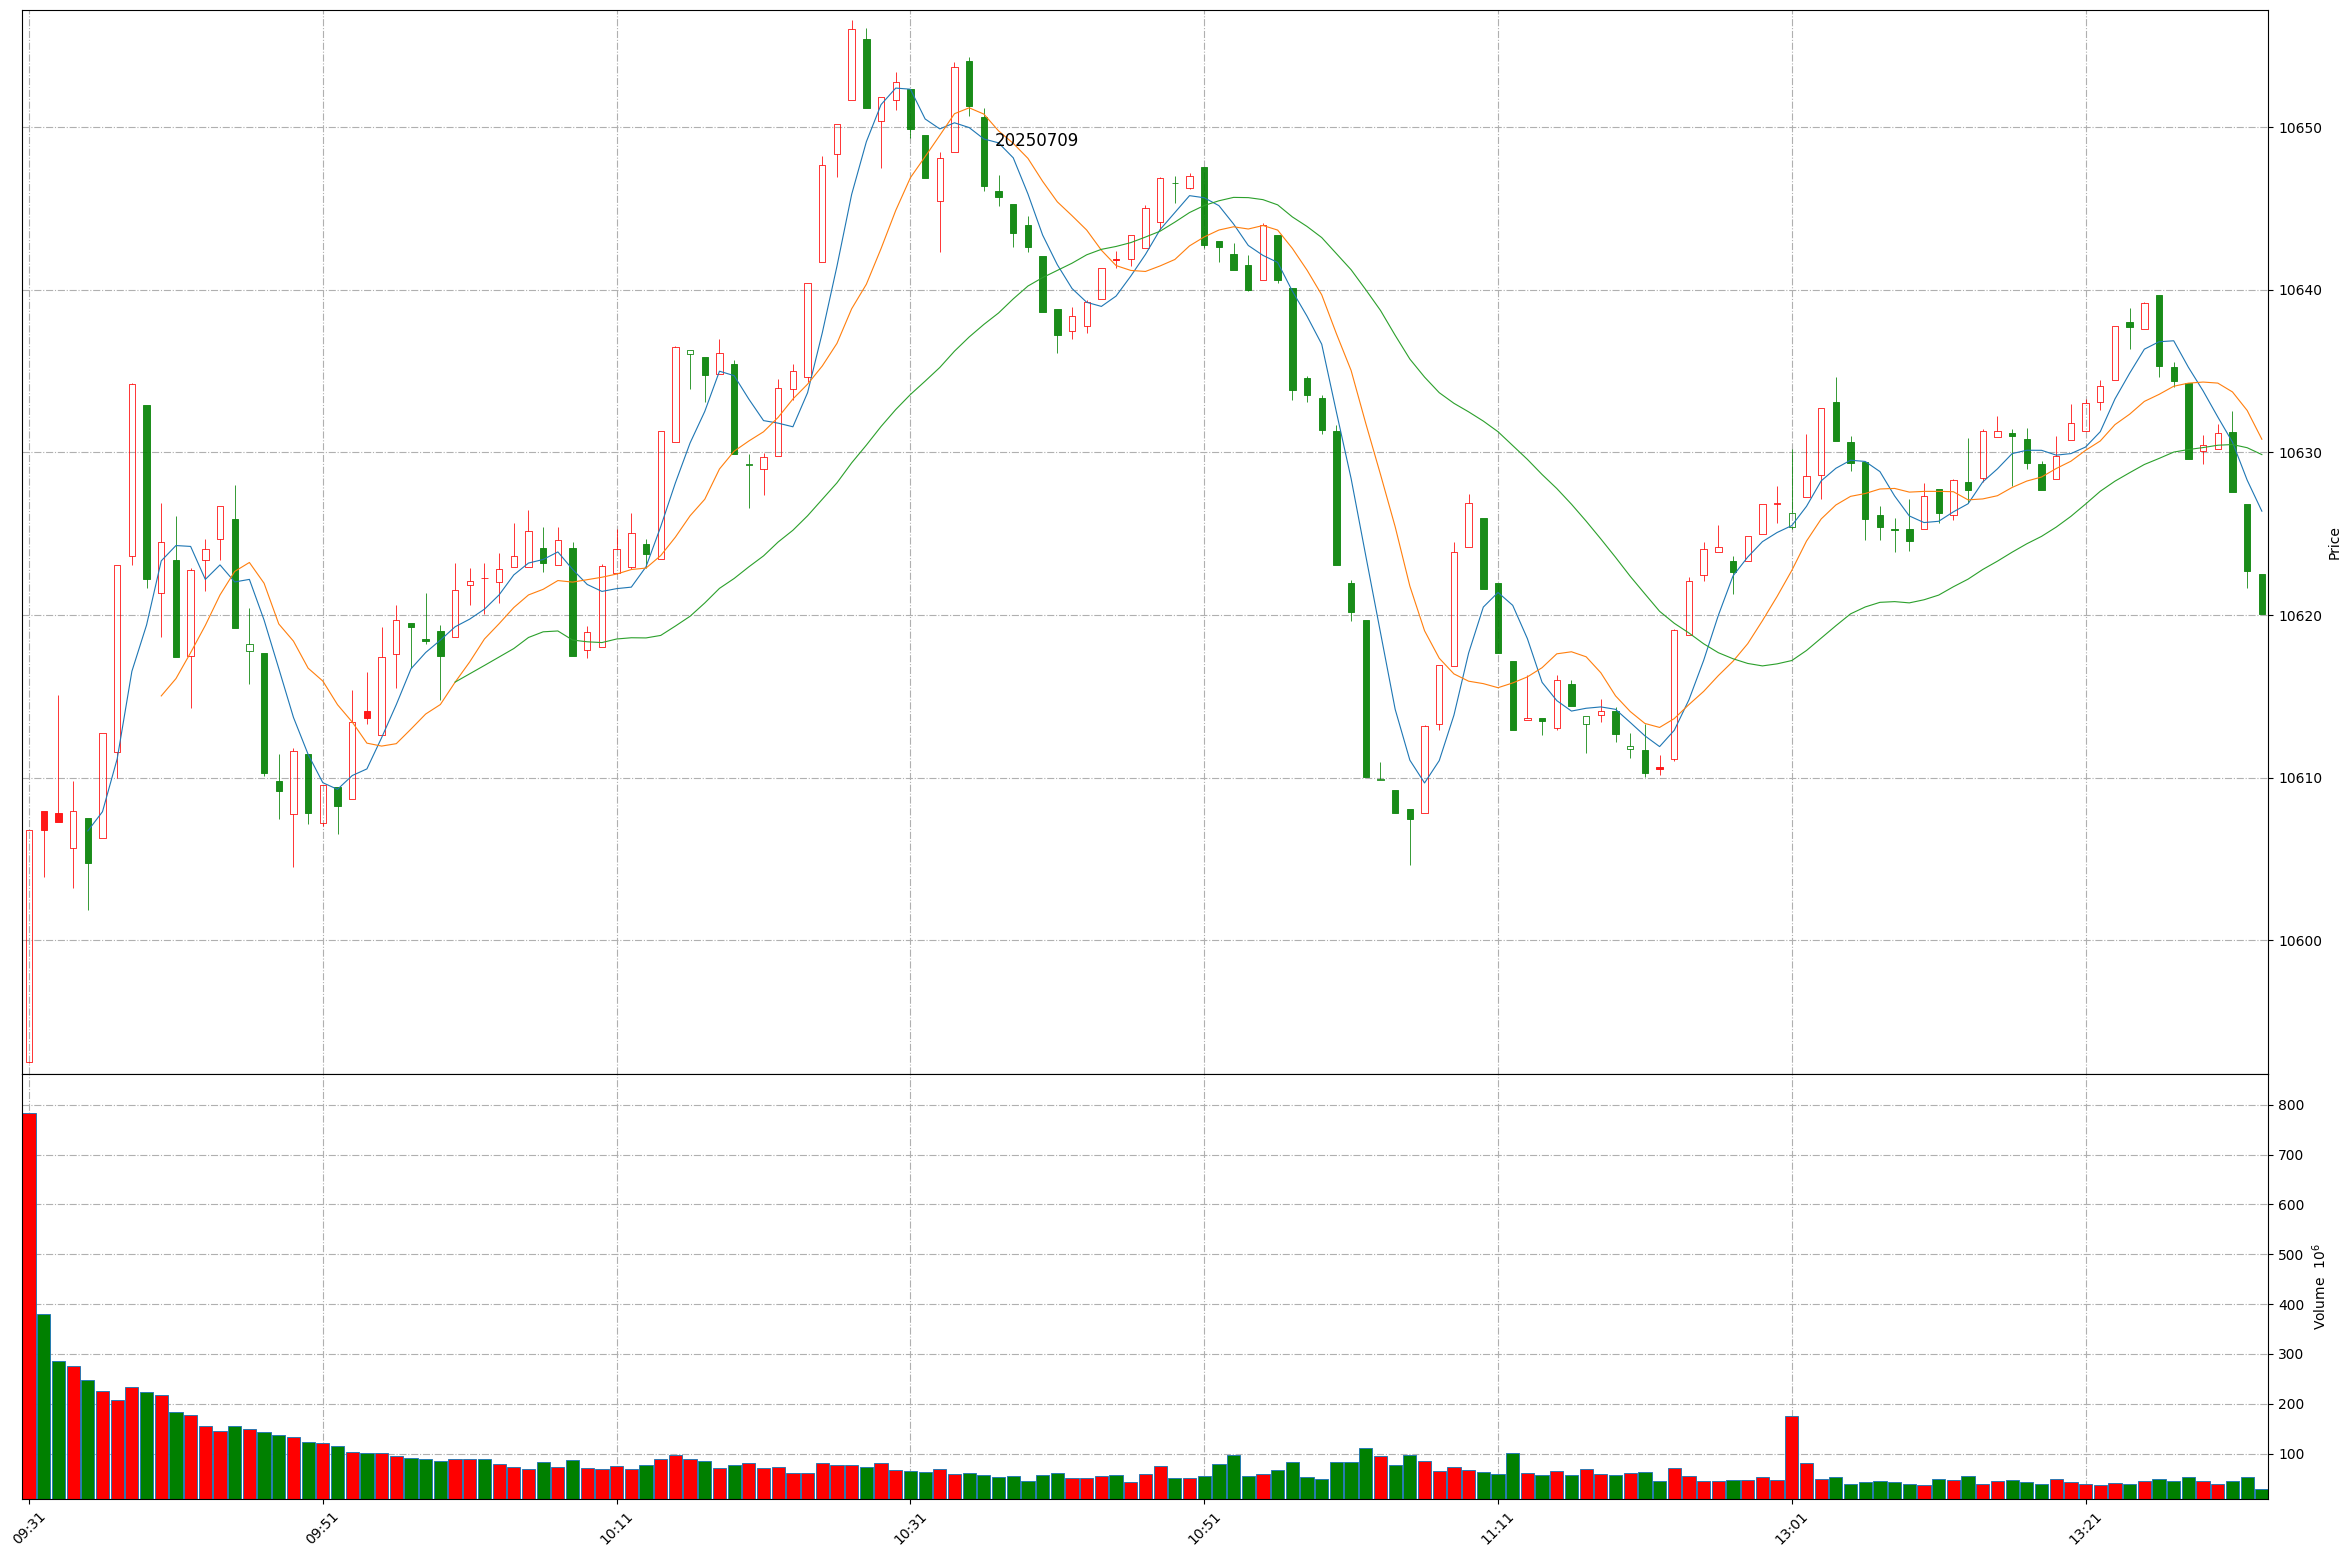
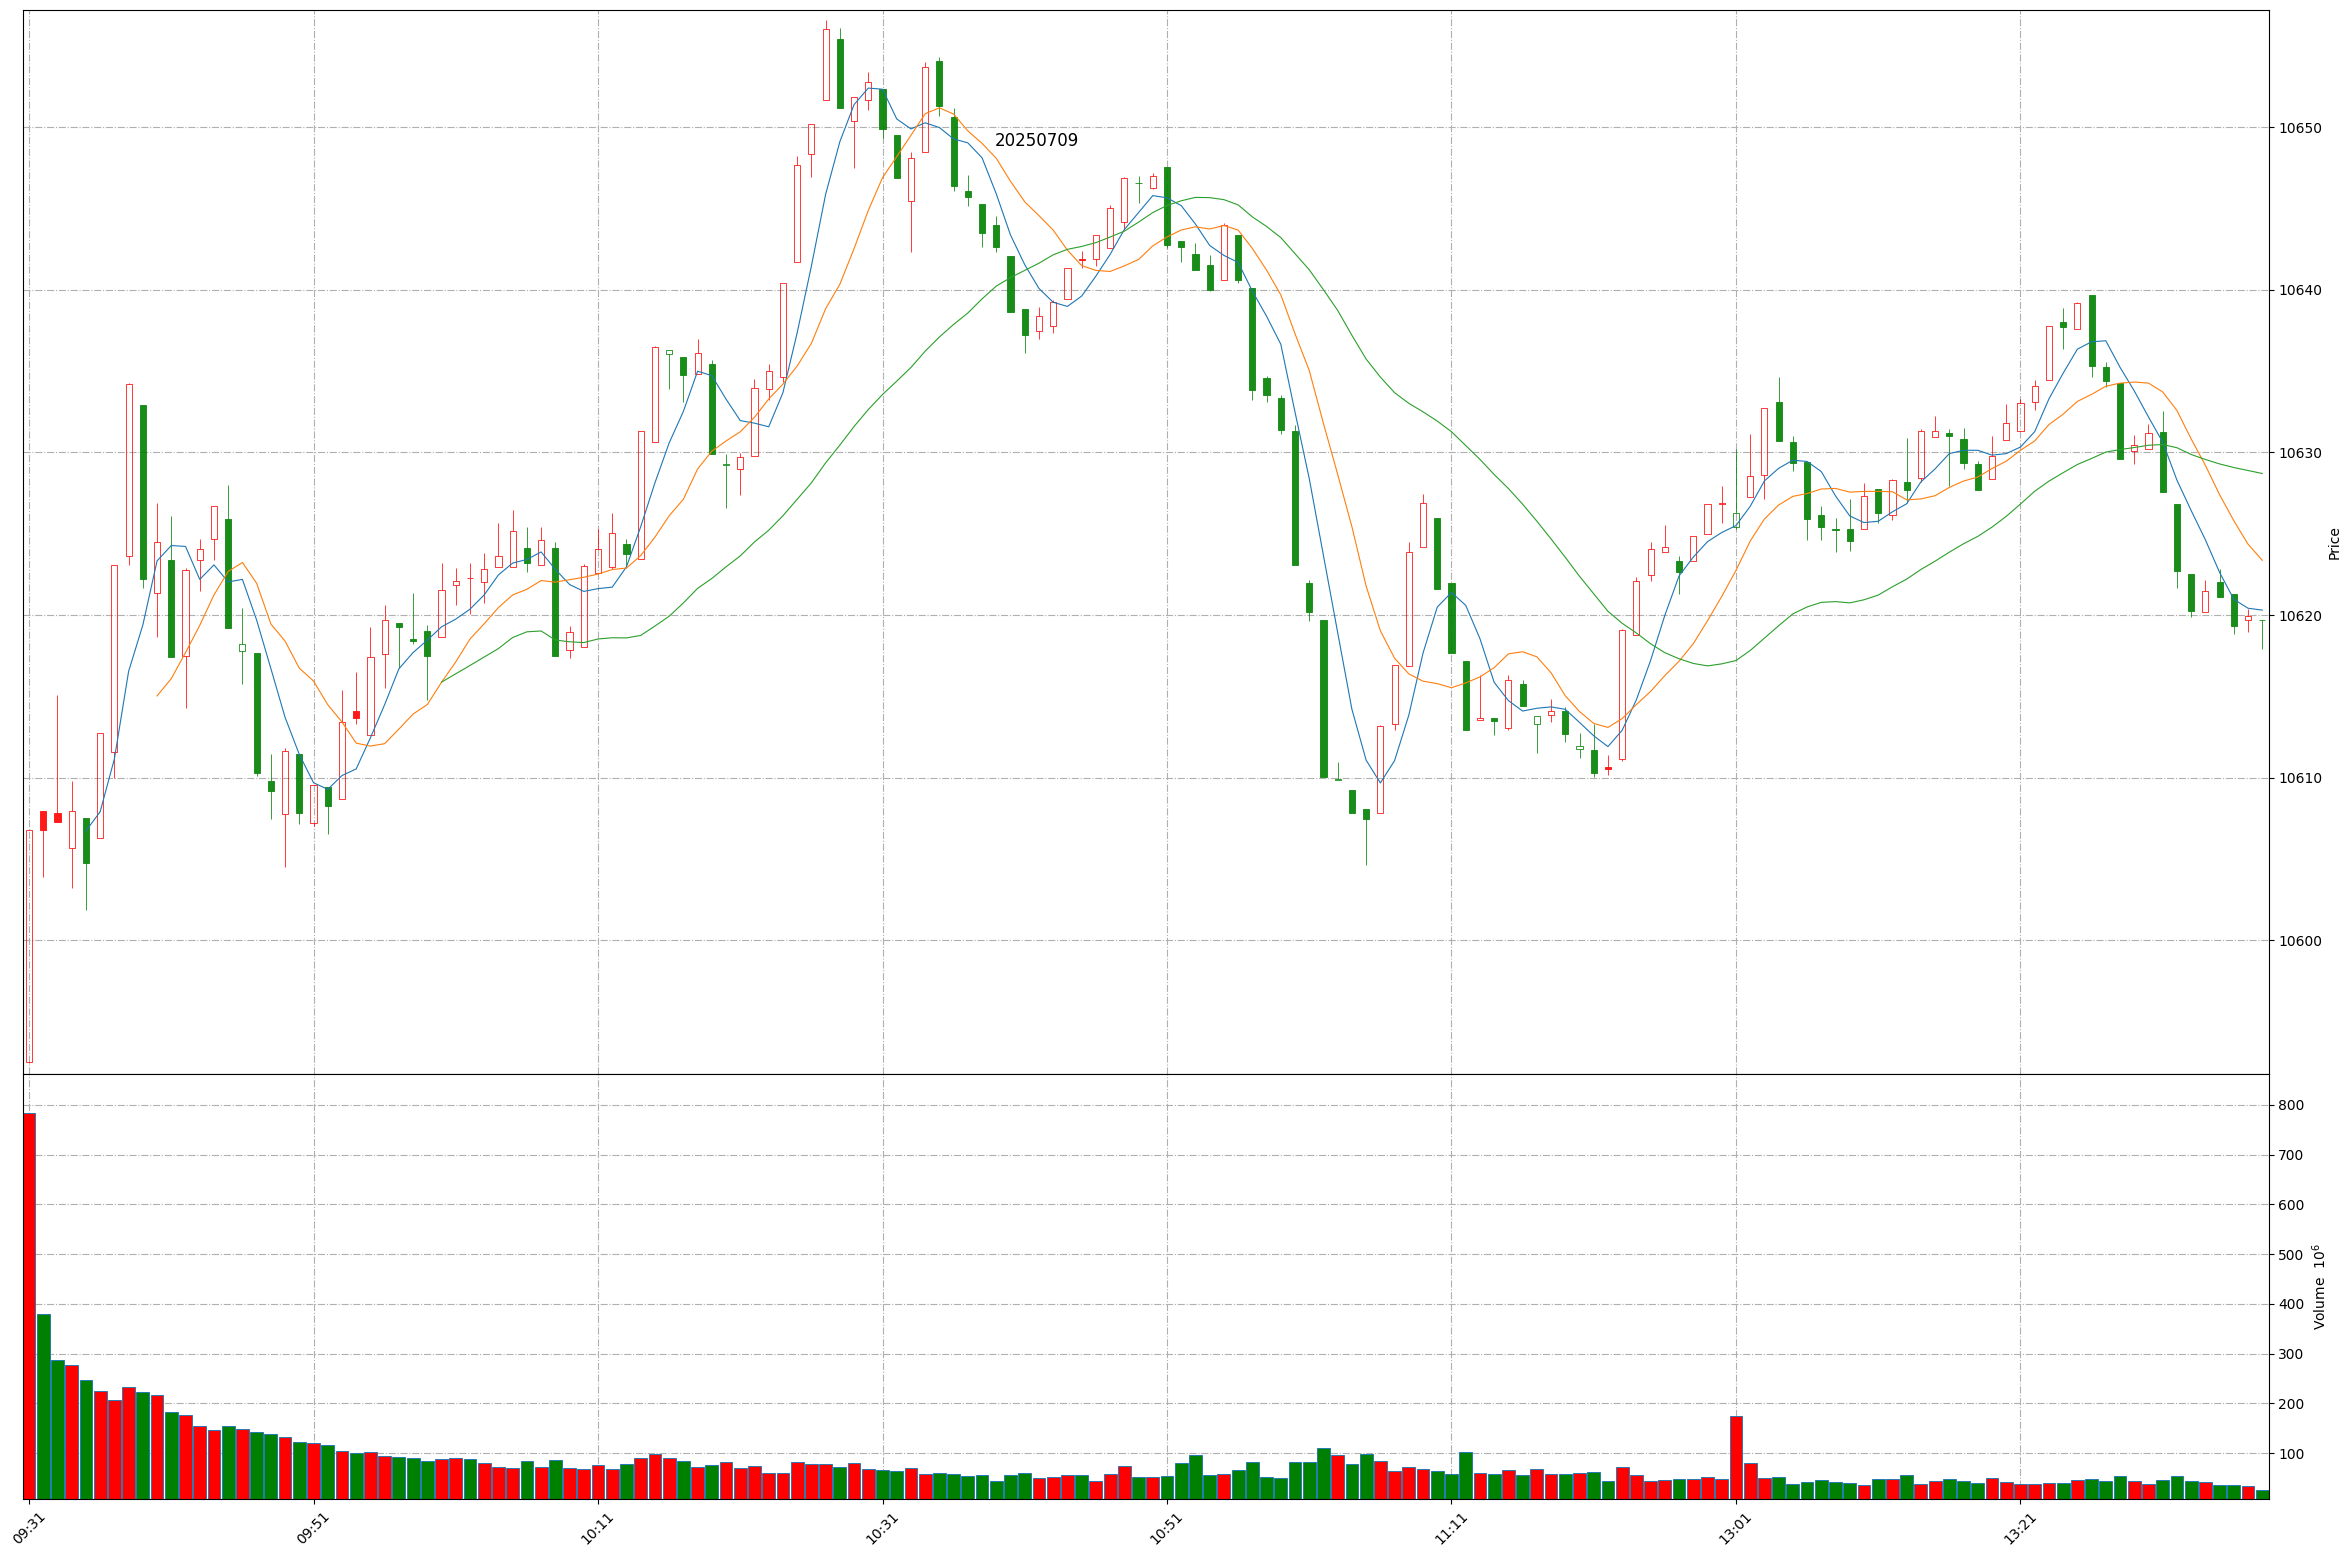
Github action update at 2025-07-09 13:37:54.

diff --git a/README.md b/README.md
@@ -1,11 +1,11 @@
 
 # Daily-A-share-market-quotes 每日 A 股指数（5min 更新）- 20250709
 
-### 上证指数 20250709 13:32
+### 上证指数 20250709 13:37
 ![](./fig/2025/7/20250709-sh000001.png)
 
-### 深证成指 20250709 13:32
+### 深证成指 20250709 13:37
 ![](./fig/2025/7/20250709-sz399001.png)
 
-### 北证50 20250709 13:32
+### 北证50 20250709 13:37
 ![](./fig/2025/7/20250709-bj899050.png)
